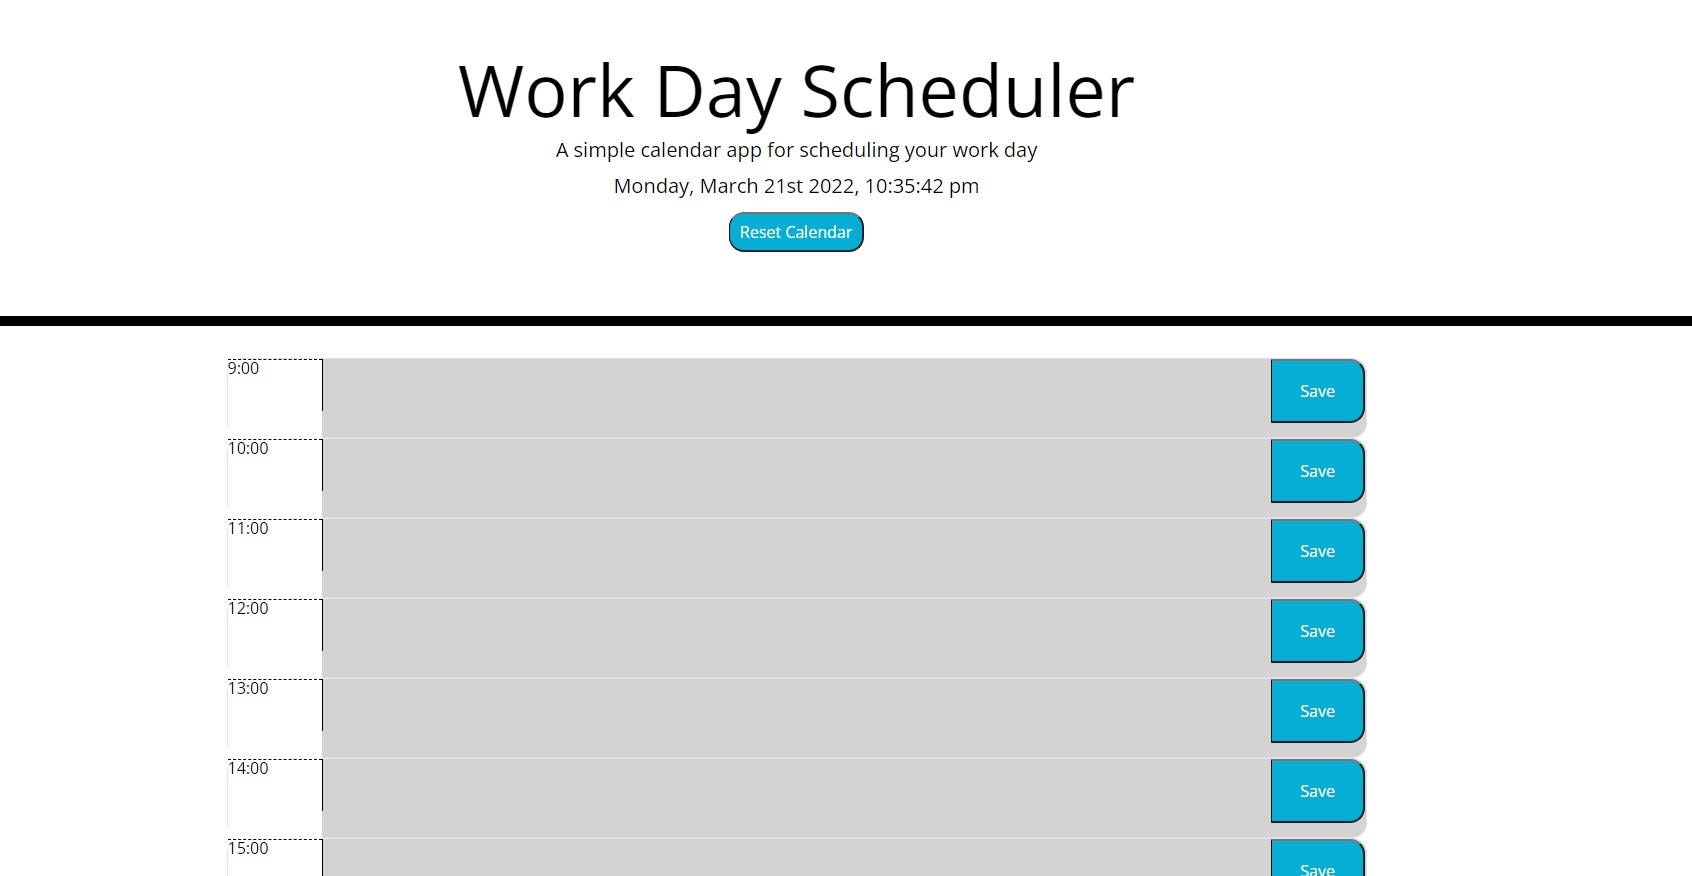
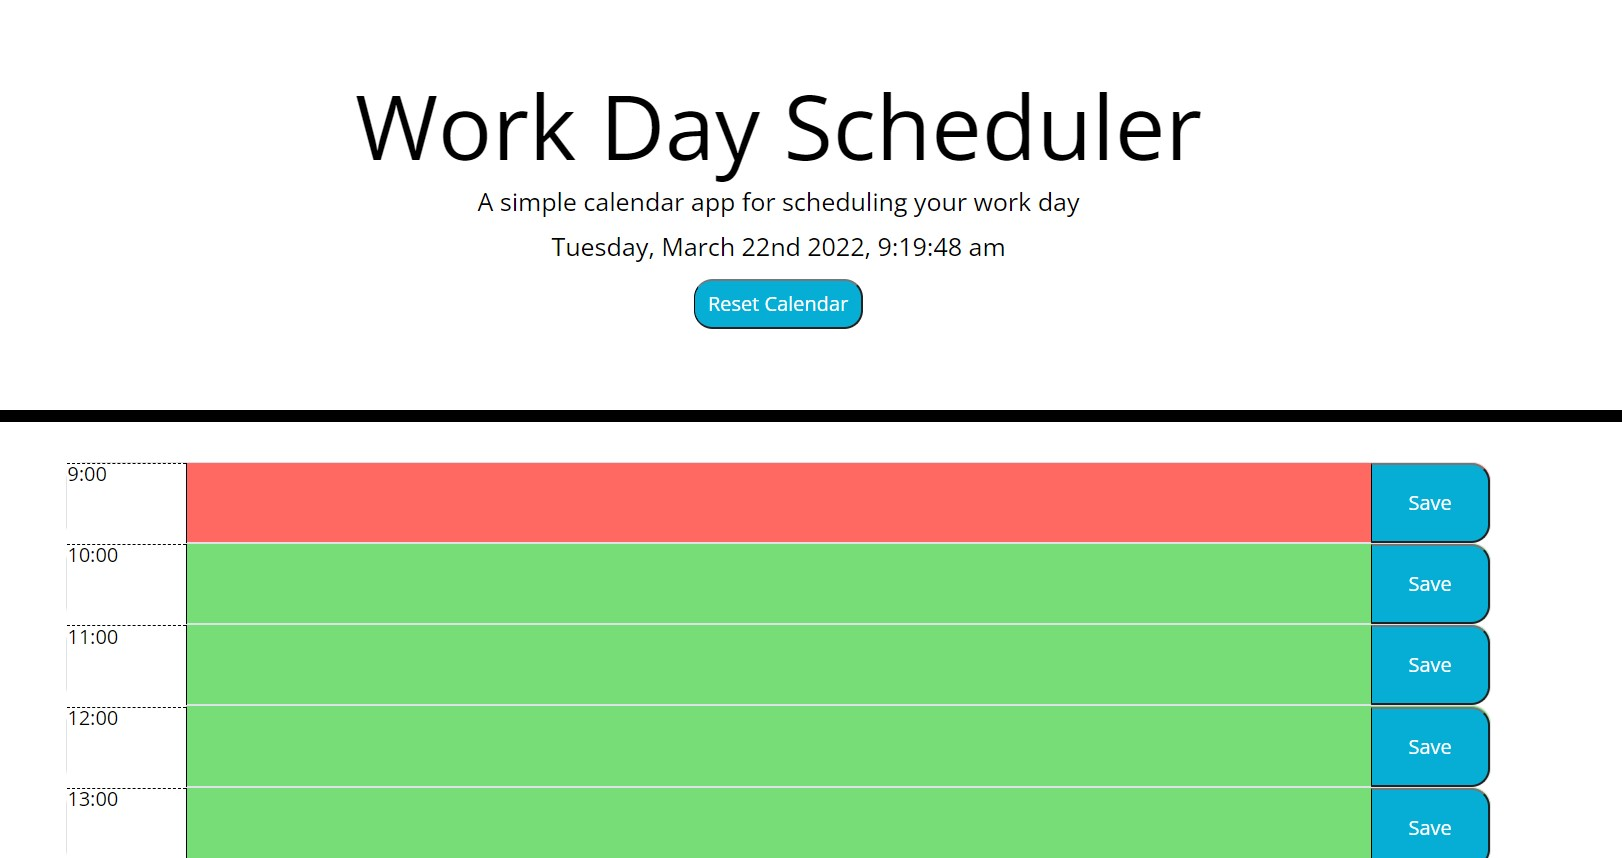
css fixed, color changes showing in readME

diff --git a/assets/CSS/style.css b/assets/CSS/style.css
@@ -2,6 +2,7 @@ body {
     font-family: 'Open Sans', sans-serif;
     font-size: 16px;
     line-height: 1;
+    margin-bottom: 20px;
   }
   
   textarea {
@@ -10,7 +11,7 @@ body {
     resize: none;
     color: #000000;
     border-left: 1px solid black;
-    padding: 10px;
+    height: 64px;
     width: 100%;     
   }
   
@@ -28,6 +29,9 @@ body {
 
   .col-1 {
     padding: 0;
+    
+    width: 100%;
+    align-content: top;
   }
   
   .col-10 {
@@ -46,14 +50,19 @@ body {
   
   .row {
     white-space: pre-wrap;
-    height: 80px;
+    height: 65px;
     border-top: 1px solid white;
+    width:100%;
+    
   }
   
   .hour {
     background-color: #ffffff;
     color: #000000;
     border-top: 1px dashed #000000;
+    justify-content: center;
+    align-content: center;
+    font-weight: bold;
   }
   
   .past {
@@ -78,9 +87,9 @@ body {
     background-color: #06aed5;
     color: white;
     width: 100%;
-    height: 4rem;
-    /* margin-top: 8px; */
+    height:64px;
     justify-items: right;
+    align-content: top;
   }
   
   .saveBtn:hover, .clearBtn:hover {

diff --git a/assets/script.js b/assets/script.js
@@ -23,16 +23,12 @@ function createRow(time) {
     
     console.log(currentHour);
     console.log(time);
- 
-    
-
-
     const timestamp = time + ':00';
 
     const row = $("<div>").attr('class', 'row time-block border').attr('id',`${time}-row`);
 
     //check time vs current hour
-
+   
     if (time === currentHour) {
         $(row).addClass('present')
     }
@@ -42,7 +38,7 @@ function createRow(time) {
     else { 
         $(row).addClass('future')
     }
-  
+
 
     const timeCol = $("<div>").attr('class', 'hour row col-1 timesection').text(timestamp);
 
@@ -116,4 +112,4 @@ $('.saveBtn').on("click", document, function (event) {
 });
 
 // checkbackGround every 5 minutes
-setInterval(setBackgroundColor(), (1000 * 60) * 5);
+setInterval(createRow(), 1000*60*5);

diff --git a/README.md b/README.md
@@ -5,6 +5,7 @@ This calendar allows the user to plan their day in hourly blocks. The time that 
 
 ## Screenshots
 <img src="assets\images\Screenshot1.jpg" >
+<img src="assets\images\Screenshot 2.jpg" >
 
 ## References
 w3schools https://www.w3schools.com
